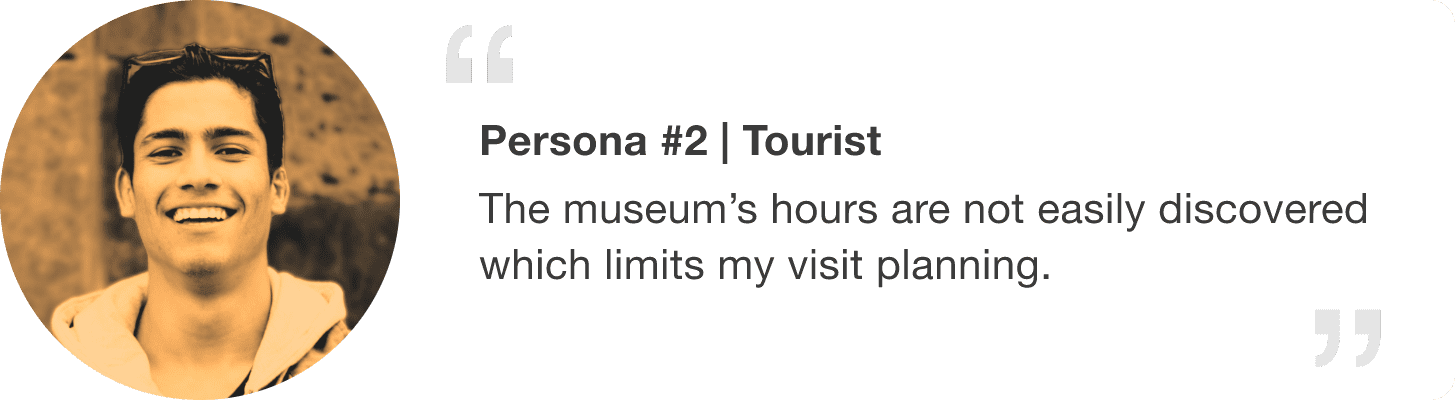
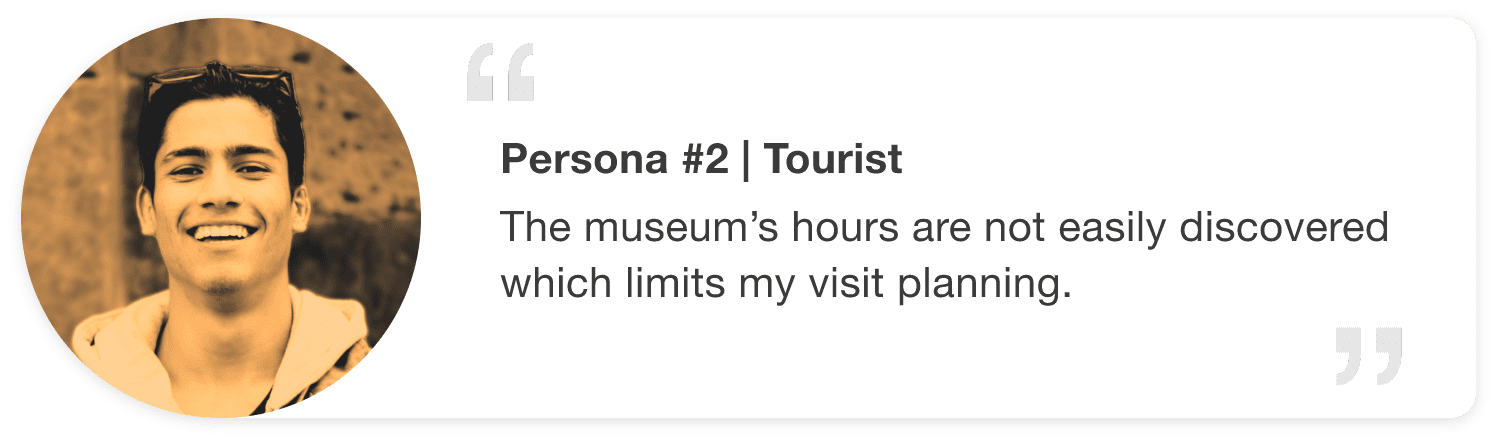
update

diff --git a/NYTransitMuseum.html b/NYTransitMuseum.html
@@ -452,28 +452,28 @@
             <a href="./static/image/ia/persona2.png" data-lightbox="image-5" data-title="Persona #1 Sabrina"><img
                     alt="pic" src="./static/image/ia/persona2.png" style="display: none;">
                 <img alt="pic" src="./static/image/ia/p1.png"
-                    style="height: 160.0px;width:582.0px;margin:160.0px 0 0 200px;position: absolute;opacity: 1;box-shadow:3px 3px 3px rgb(243, 243, 243);border-radius: 12px;"
+                    style="width:582.0px;margin:160.0px 0 0 200px;position: absolute;opacity: 1;"
                     >
                 <img alt="pic" src="./static/image/ia/p1_h.png"
-                    style="height: 160.0px;width:582.0px;margin:160.0px 0 0 200px;position: absolute;opacity: 1;box-shadow:3px 3px 3px rgb(243, 243, 243);border-radius: 12px;opacity: 0;"
+                    style="width:582.0px;margin:160.0px 0 0 200px;position: absolute;opacity: 1;opacity: 0;"
                     id="ppo11">
             </a>
             <a href="./static/image/ia/persona3.png" data-lightbox="image-5" data-title="Persona #2 Emison"><img
                     alt="pic" src="./static/image/ia/persona3.png" style="display: none;">
                 <img alt="pic" src="./static/image/ia/p3.png"
-                    style="height: 160.0px;width:582.0px;margin:336.0px 0 0 712.0px;position: absolute;opacity: 1;box-shadow:3px 3px 3px rgb(243, 243, 243);border-radius: 12px;"
+                    style="width:582.0px;margin:336.0px 0 0 712.0px;position: absolute;opacity: 1;"
                     >
                 <img alt="pic" src="./static/image/ia/p2_h.png"
-                    style="height: 160.0px;width:582.0px;margin:336.0px 0 0 712.0px;position: absolute;opacity: 1;box-shadow:3px 3px 3px rgb(243, 243, 243);border-radius: 12px;opacity: 0;"
+                    style="width:582.0px;margin:336.0px 0 0 712.0px;position: absolute;opacity: 1;opacity: 0;"
                     id="ppo22">
             </a>
             <a href="./static/image/ia/persona1.png" data-lightbox="image-5" data-title="Persona #3 Anna"><img
                     alt="pic" src="./static/image/ia/persona1.png" style="display: none;">
                 <img alt="pic" src="./static/image/ia/p2.png"
-                    style="height: 160.0px;width:582.0px;margin:512.0px 0 0 312.8px;position: absolute;opacity: 1;box-shadow:3px 3px 3px rgb(243, 243, 243);border-radius: 12px;"
+                    style="width:582.0px;margin:512.0px 0 0 312.8px;position: absolute;opacity: 1;"
                    >
                 <img alt="pic" src="./static/image/ia/p3_h.png"
-                    style="height: 160.0px;width:582.0px;margin:512.0px 0 0 312.8px;position: absolute;opacity: 1;box-shadow:3px 3px 3px rgb(243, 243, 243);border-radius: 12px;opacity: 0;"
+                    style="width:582.0px;margin:512.0px 0 0 312.8px;position: absolute;opacity: 1;opacity: 0;"
                     id="ppo33">
             </a>
         </div>
